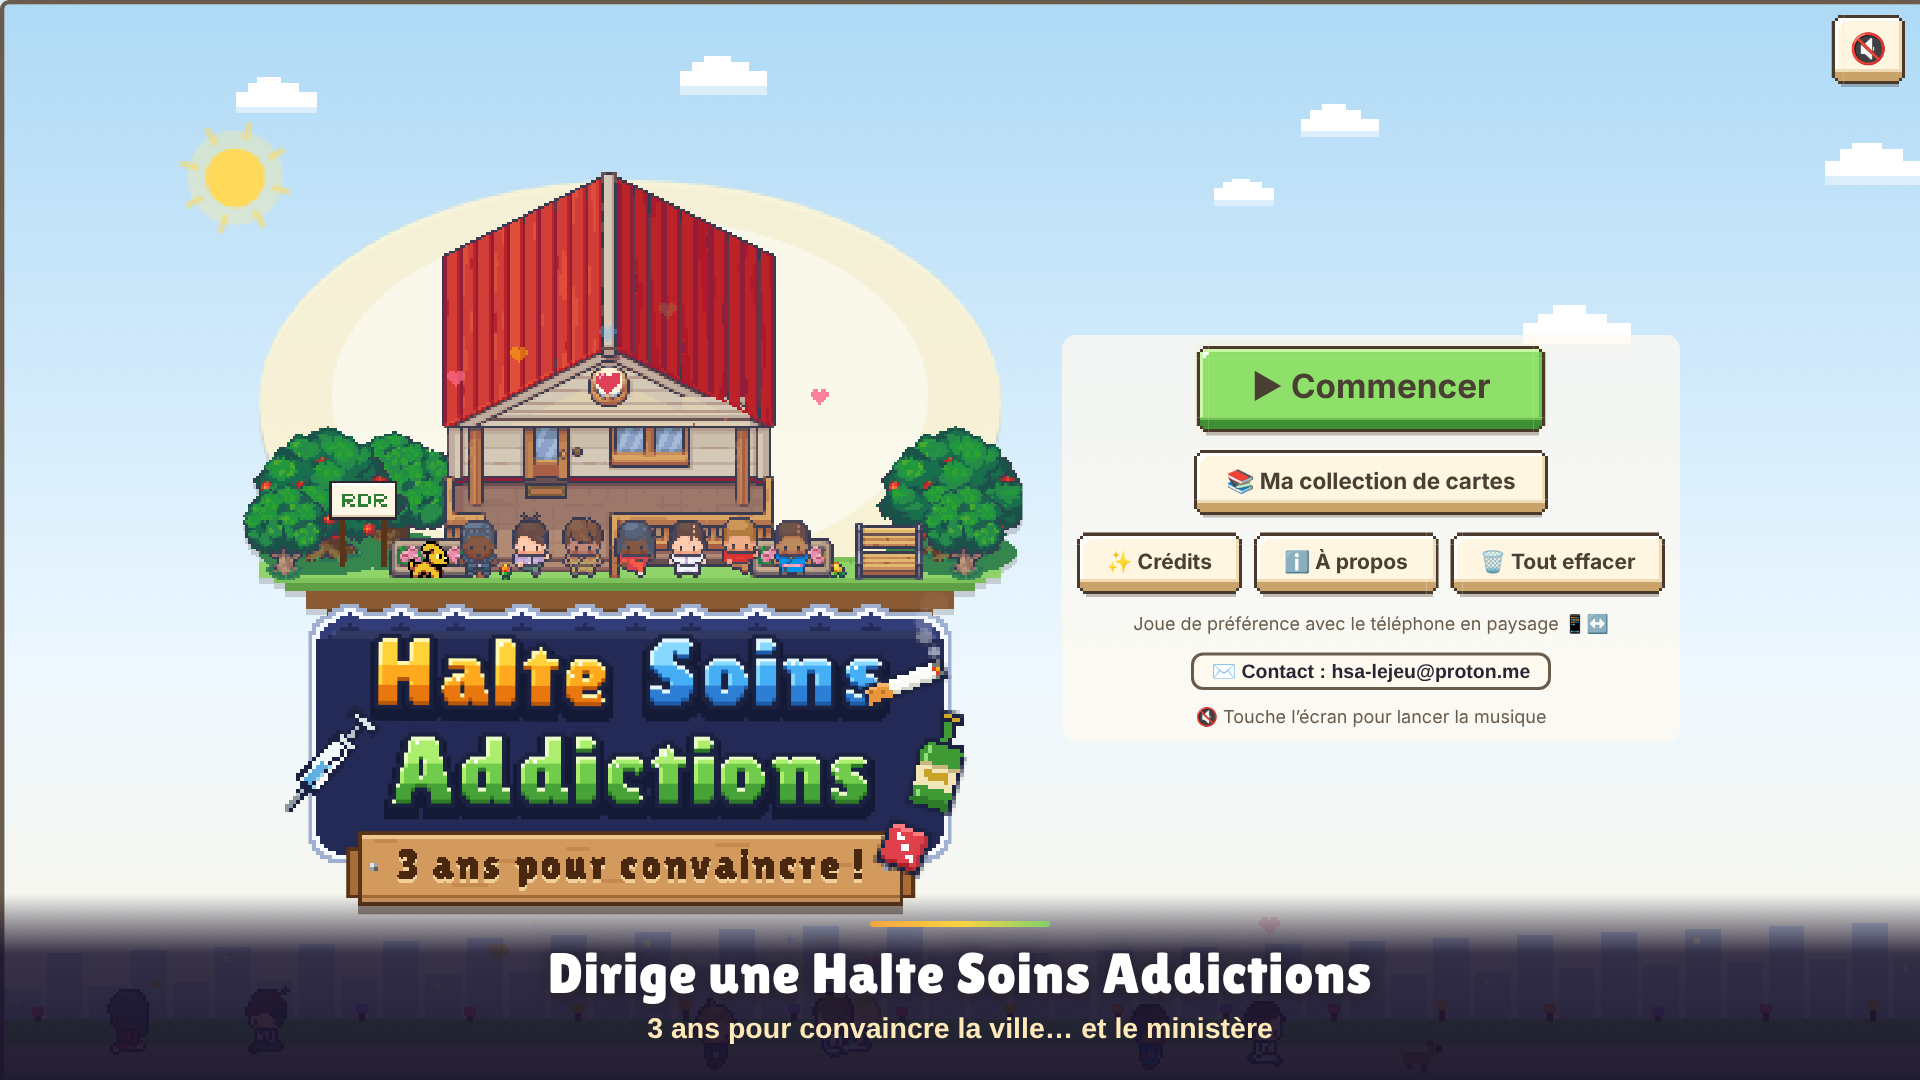
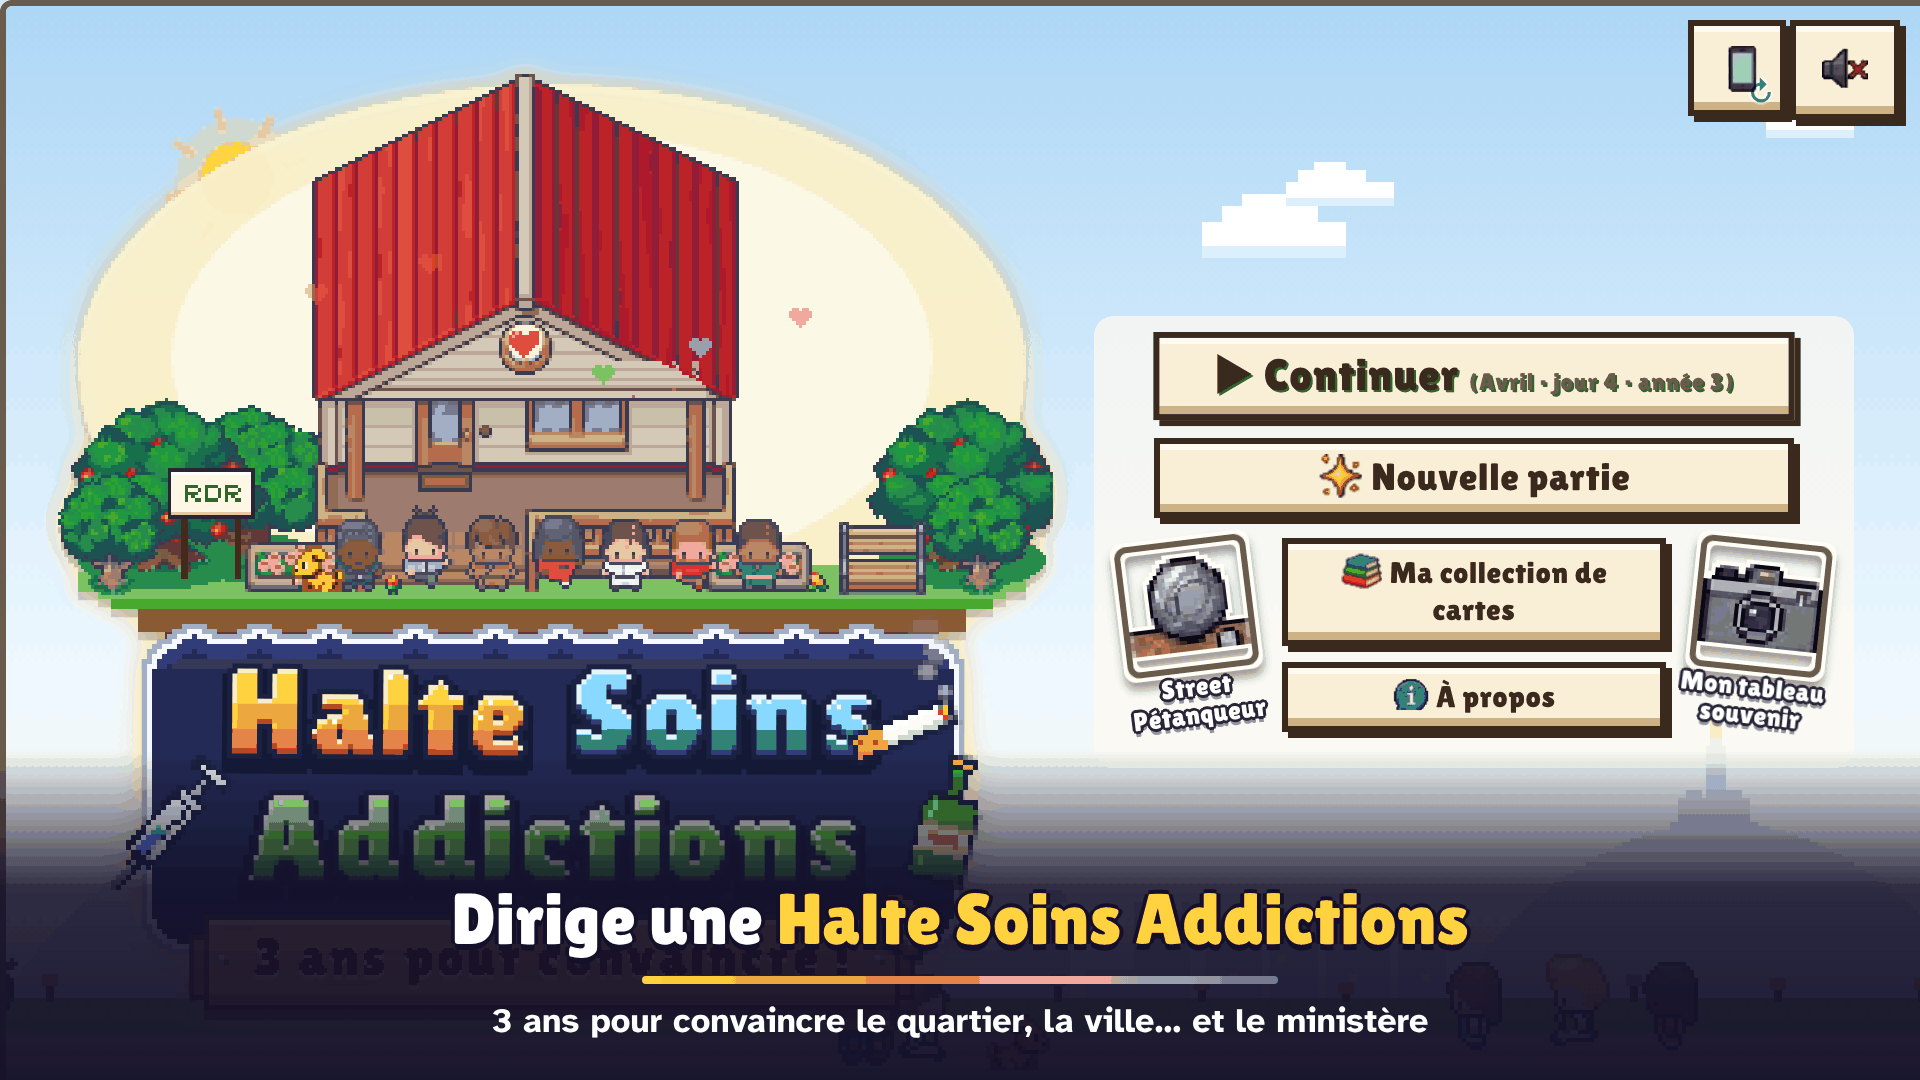
Captures du manifeste refaites : huit paysage et huit portrait, légendées (débat, pétanque, tableau souvenir)
Claude-Session: https://claude.ai/code/session_019Kk26fXkD5mCq3ksso4Fzf

diff --git a/CLAUDE.md b/CLAUDE.md
@@ -140,3 +140,8 @@ Accueil (v727) :
 Musique du tableau souvenir (v728) :
 - `musique/tidy_clinic.mp3` (« Tidy Clinic », créée avec Suno, créditée dans les Crédits ; ajoutée à la liste `MUS` de `outils/mksw.py`). `shMus(true)` à l'ouverture du tableau : la musique du jeu s'efface et se met en pause, celle du tableau monte ; `shMus(false)` à la fermeture fait l'inverse. Fondus par `requestAnimationFrame` (`shFade`), car le jeu est en pause. `playMus` ne fait rien tant que `#shov` est ouvert ou que le tableau vient de l'accueil (`__shBack`).
 
+Captures et vidéo de présentation (12 novembre 2026) :
+- `screenshots/` : huit captures paysage 1920 × 1080 (`01_titre` … `08_quartier`) et huit portrait 1080 × 1920 (`p01_…`), légendées dans l'image (titre Lilita, sous-titre Atkinson, bandeau sombre en bas) ; elles sont listées dans `manifest.webmanifest` (`wide` / `narrow`). Les originaux sans réduction de couleurs sont remis à l'utilisateur pour Google Play.
+- Méthode : la légende est un calque posé dans la page du jeu avant la capture (polices du jeu). Raccourcis utiles : `?an=3`, `?an=3#tableau`, `debOpen()`, `petaShow(true)` avec `__pTerOK=()=>true`.
+- Vidéo : enregistrée image par image avec l'horloge simulée de la partie témoin (`__adv(1000/30)` puis capture), animations CSS recalées sur le temps simulé (`document.getAnimations()`), assemblée par ffmpeg à 30 images par seconde. C'est le seul moyen d'avoir une vidéo fluide sur le banc d'essai.
+
